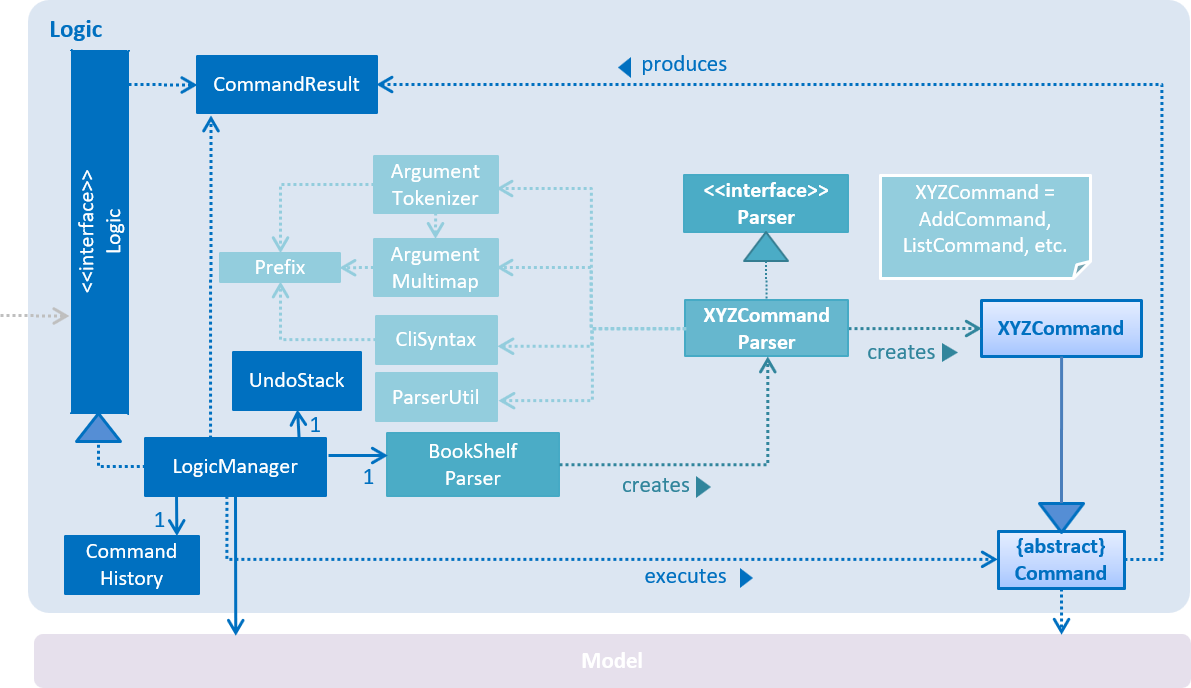
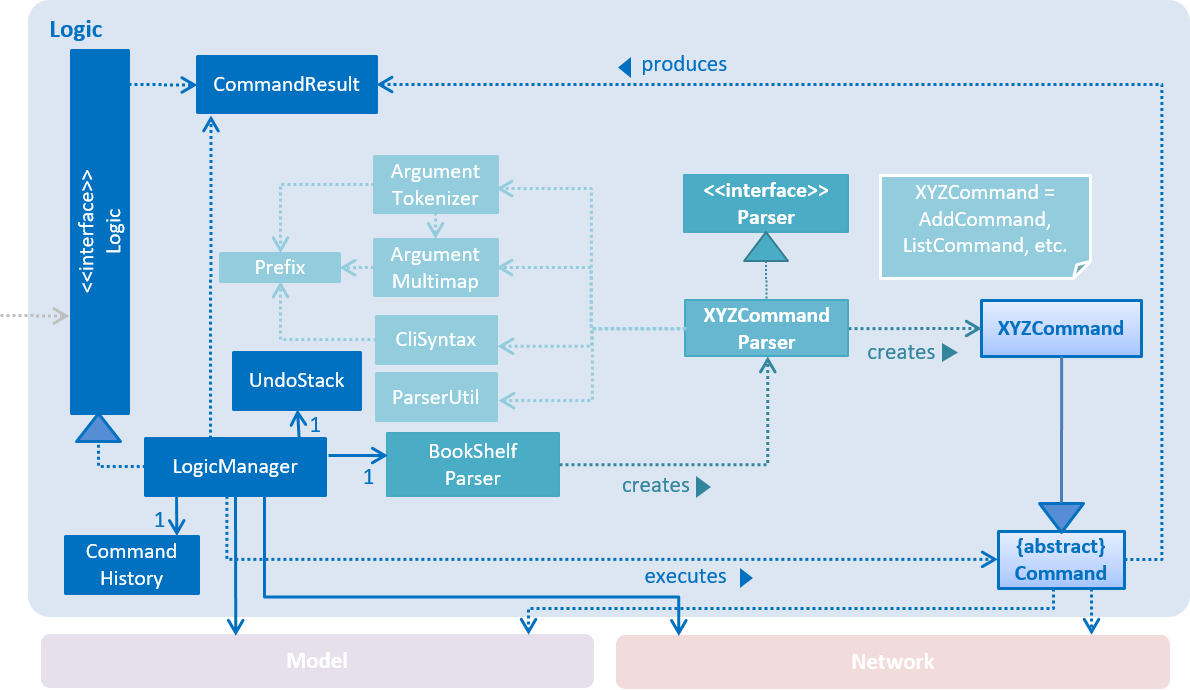
Rebuild pages at f0ba6e5fcd3ec1c89cfc0a51580741d20564dcec

diff --git a/DeveloperGuide.html b/DeveloperGuide.html
@@ -502,7 +502,7 @@ Note how the event is propagated through the <code>EventsCenter</code> to the <c
 <p>This results in a <code>Command</code> object which is executed by the <code>LogicManager</code>.</p>
 </li>
 <li>
-<p>The command execution can affect the <code>Model</code> (e.g. adding a book) and/or raise events.</p>
+<p>The command execution can affect the <code>Model</code> (e.g. adding a book), make web API calls using the <code>Network</code>, and/or raise events.</p>
 </li>
 <li>
 <p>The result of the command execution is encapsulated as a <code>CommandResult</code> object which is passed back to the <code>Ui</code>.</p>
@@ -619,6 +619,10 @@ Note how the event is propagated through the <code>EventsCenter</code> to the <c
 </div>
 <div class="sect2">
 <h3 id="search-feature"><a class="anchor" href="#search-feature"></a>3.1. Search feature</h3>
+<div class="paragraph">
+<p>The search feature allows the user to search for books on <a href="https://books.google.com/" target="_blank" rel="noopener">Google Books</a> that matches some user-specified parameters.
+This allows the user to easily search for particular books, and to add them without having to enter all the information manually (using the <code>add</code> command).</p>
+</div>
 <div class="sect3">
 <h4 id="current-implementation"><a class="anchor" href="#current-implementation"></a>3.1.1. Current Implementation</h4>
 <div class="sect4">
@@ -628,23 +632,24 @@ Note how the event is propagated through the <code>EventsCenter</code> to the <c
 An overview of the network component can be found in <a href="#Design-Network">Section 2.6, &#8220;Network component&#8221;</a>.</p>
 </div>
 <div class="paragraph">
-<p>The network component makes heavy use of events in the way it interacts with other components.
-The <code>Network</code> API exposes a single method <code>stop</code> that allows for graceful shutdown of the internal asynchronous HTTP client.
-All requests for web API calls should be made by raising the relevant <code>Api*RequestEvent</code>.
-To retrieve the results of the web API calls, interested classes should subscribe to the respective <code>Api*ResultEvent</code>.</p>
+<p>The <code>Network</code> object is passed by <code>LogicManager</code> into each <code>Command</code>, and is available for use by default, without the need for the <code>Command</code> to override <code>setData</code>.</p>
 </div>
 <div class="paragraph">
-<p>For example, to retrieve search results from Google Books API, an <code>ApiSearchRequestEvent</code> can be raised.
-The following sequence diagram shows how an <code>ApiSearchRequestEvent</code> will be handled:</p>
+<p>The <code>Network</code> API exposes various methods for making web API calls to various endpoints.
+Apart from those, it also provides a <code>stop</code> method that allows for graceful shutdown of the internal asynchronous HTTP client.</p>
+</div>
+<div class="paragraph">
+<p>As an example, if a command needs to retrieve search results from <a href="https://developers.google.com/books/" target="_blank" rel="noopener">Google Books API</a>, it can make a call to the <code>searchBooks</code> method of the <code>Network</code> API.
+The following sequence diagram shows what happens when <code>searchBooks</code> is called:</p>
 </div>
 <div class="imageblock">
 <div class="content">
-<img src="images/SearchRequestSequenceDiagram.png" alt="SearchRequestSequenceDiagram" width="800">
+<img src="images/SearchBooksSequenceDiagram.png" alt="SearchBooksSequenceDiagram" width="750">
 </div>
 </div>
 <div class="paragraph">
 <p>The methods shown above are asynchronous - they will not wait for the completion of the HTTP request.
-In particular, note that when <code>handleApiSearchRequestEvent</code> finishes execution, the HTTP request might not have completed yet.
+In particular, note that when <code>Network#searchBooks</code> finishes execution, the HTTP request might not have completed yet.
 This is accomplished through the use of a chain of <code>CompletableFuture</code> objects, which holds the operations that the above methods wish to apply to the data.
 This is most evident in the <code>executeGetAndApply</code> method, as shown below:</p>
 </div>
@@ -665,38 +670,23 @@ This is most evident in the <code>executeGetAndApply</code> method, as shown bel
 </div>
 <div class="imageblock">
 <div class="content">
-<img src="images/SearchRequestActivityDiagram.png" alt="SearchRequestActivityDiagram" width="650">
+<img src="images/SearchBooksActivityDiagram.png" alt="SearchBooksActivityDiagram" width="650">
 </div>
 </div>
 <div class="paragraph">
-<p>If the HTTP request fails, the response is unexpected, or the conversion to <code>BookShelf</code> fails, then the proceeding operations added by the calls to <code>thenApply</code> will be skipped,
-and the resulting <code>ApiSearchResultEvent</code> that is raised will have a <code>ResultOutcome</code> of <code>FAILURE</code>.</p>
-</div>
-<div class="listingblock">
-<div class="content">
-<pre class="CodeRay highlight"><code data-lang="java">    <span class="annotation">@Subscribe</span>
-    <span class="directive">protected</span> <span class="type">void</span> handleGoogleApiSearchRequestEvent(ApiSearchRequestEvent event) {
-        googleBooksApi.searchBooks(event.searchParameters)
-                .thenApply(bookShelf -&gt; {
-                    raise(<span class="keyword">new</span> ApiSearchResultEvent(ResultOutcome.SUCCESS, bookShelf));
-                    <span class="keyword">return</span> bookShelf;
-                })
-                .exceptionally(e -&gt; {
-                    raise(<span class="keyword">new</span> ApiSearchResultEvent(ResultOutcome.FAILURE, <span class="predefined-constant">null</span>));
-                    <span class="keyword">return</span> <span class="predefined-constant">null</span>;
-                });
-    }</code></pre>
-</div>
+<p>If the HTTP request fails, the response is unexpected, or the conversion to <code>BookShelf</code> fails, then the proceeding operations
+added by the calls to <code>thenApply</code> will be skipped, and the <code>CompletableFuture</code> is considered to have completed exceptionally.
+If necessary, the caller can handle the failure by chaining an <code>exceptionally</code> call onto the <code>CompletableFuture</code> it receives.</p>
 </div>
 </div>
 <div class="sect4">
-<h5 id="search-command"><a class="anchor" href="#search-command"></a>Search command</h5>
+<h5 id="Search-Command"><a class="anchor" href="#Search-Command"></a>Search command</h5>
 <div class="paragraph">
-<p>With the network component in place, the <code>search</code> command can now be implemented.
-The <code>search</code> command allows the user to search for books on Google Books that matches some user-specified parameters.</p>
+<p>With the network component in place, the <code>search</code> command can now be implemented.</p>
 </div>
 <div class="paragraph">
-<p>When a <code>search</code> command is entered, a <code>SearchCommand</code> will be created if the parsing of the command was successful, which will raise an <code>ApiSearchRequestEvent</code>, as shown in the sequence diagram below:</p>
+<p>When a <code>search</code> command is entered, a <code>SearchCommand</code> object will be created if the parsing of the command was successful,
+which will make a call to <code>searchBooks</code> on the <code>Network</code> API, as shown in the sequence diagram below:</p>
 </div>
 <div class="imageblock">
 <div class="content">
@@ -704,14 +694,24 @@ The <code>search</code> command allows the user to search for books on Google Bo
 </div>
 </div>
 <div class="paragraph">
-<p>As described in <a href="#Search-Network">Section 3.1.1.1, &#8220;Network component&#8221;</a>, when the event is handled by <code>NetworkManager</code>, this will result in an asynchronous HTTP request being made to Google Books API.
-Once the request and the parsing of the response completes successfully, an <code>ApiSearchResultEvent</code> will be raised, which will be handled in <code>LogicManager</code>.
-The below sequence diagram shows how the <code>ApiSearchResultEvent</code> will be handled:</p>
+<p>As described in <a href="#Search-Network">Section 3.1.1.1, &#8220;Network component&#8221;</a>, when the event is handled by <code>NetworkManager</code>, this will result in an asynchronous HTTP request being made to <a href="https://developers.google.com/books/" target="_blank" rel="noopener">Google Books API</a>.
+Once the request and the parsing of the response completes successfully, the operation added by the <code>thenAccept</code> call in <code>SearchCommand</code> will be executed.
+This results in the execution of the following method in <code>SearchCommand</code>:</p>
 </div>
-<div class="imageblock">
+<div class="listingblock">
 <div class="content">
-<img src="images/SearchCommandResultSequenceDiagram.png" alt="SearchCommandResultSequenceDiagram" width="650">
+<pre class="CodeRay highlight"><code data-lang="java">    <span class="directive">private</span> <span class="type">void</span> displaySearchResults(ReadOnlyBookShelf bookShelf) {
+        Platform.runLater(() -&gt; {
+            model.updateSearchResults(bookShelf);
+            EventsCenter.getInstance().post(<span class="keyword">new</span> SwitchToSearchResultsRequestEvent());
+            EventsCenter.getInstance().post(<span class="keyword">new</span> NewResultAvailableEvent(...));
+        });
+    }</code></pre>
 </div>
+</div>
+<div class="paragraph">
+<p>Note that the update to the model must be done on the JavaFX thread (using <code>Platform#runLater</code>),
+since updating the search results will update its observable list, which will cause the UI to be updated.</p>
 </div>
 </div>
 </div>
@@ -729,7 +729,7 @@ The below sequence diagram shows how the <code>ApiSearchResultEvent</code> will 
 <p>Pros: The application will be more responsive, as potentially long-running HTTP requests will not block the application thread.</p>
 </li>
 <li>
-<p>Cons: Not straightforward to implement, especially considering that changes to the UI has to be made on the JavaFX application thread.</p>
+<p>Cons: Not straightforward to implement, especially considering that changes to the UI have to be made on the JavaFX application thread.</p>
 </li>
 </ul>
 </div>
@@ -755,20 +755,7 @@ The below sequence diagram shows how the <code>ApiSearchResultEvent</code> will 
 <div class="ulist">
 <ul>
 <li>
-<p><strong>Alternative 1 (current choice):</strong> Use events to request for web API calls and retrieve the results.</p>
-<div class="ulist">
-<ul>
-<li>
-<p>Pros: Less coupling - no component will be directly depending on the network component.</p>
-</li>
-<li>
-<p>Cons: The flow of data can become less explicit and clear, and it becomes more complicated to use a single web API call for multiple purposes.</p>
-</li>
-</ul>
-</div>
-</li>
-<li>
-<p><strong>Alternative 2:</strong> Call methods on the <code>Network</code> API directly, which return <code>Future</code> objects.</p>
+<p><strong>Alternative 1 (current choice):</strong> Call methods on the <code>Network</code> API directly, which return <code>CompletableFuture</code> objects.</p>
 <div class="ulist">
 <ul>
 <li>
@@ -776,6 +763,19 @@ The below sequence diagram shows how the <code>ApiSearchResultEvent</code> will 
 </li>
 <li>
 <p>Cons: Since web API calls are made by certain commands, the <code>NetworkManager</code> will have to be passed from <code>MainApp</code> all the way into each <code>Command</code>.</p>
+</li>
+</ul>
+</div>
+</li>
+<li>
+<p><strong>Alternative 2:</strong> Use events to request for web API calls and retrieve the results.</p>
+<div class="ulist">
+<ul>
+<li>
+<p>Pros: Less coupling - no component will be directly depending on the network component.</p>
+</li>
+<li>
+<p>Cons: The flow of data can become less explicit and clear, and it becomes more complicated to use a single web API call for multiple purposes.</p>
 </li>
 </ul>
 </div>
@@ -3148,7 +3148,7 @@ Expected: Similar to previous.</p>
 </div>
 <div id="footer">
 <div id="footer-text">
-Last updated 2018-03-29 14:04:52 UTC
+Last updated 2018-03-29 14:16:59 UTC
 </div>
 </div>
 </body>

diff --git a/UsingCoveralls.html b/UsingCoveralls.html
@@ -115,7 +115,7 @@ If you have not set up Travis CI, see <a href="UsingTravis.html">UsingTravis.ado
 </div>
 <div id="footer">
 <div id="footer-text">
-Last updated 2018-03-29 14:04:52 UTC
+Last updated 2018-03-29 14:16:59 UTC
 </div>
 </div>
 </body>

diff --git a/UsingGradle.html b/UsingGradle.html
@@ -261,7 +261,7 @@ See <code>build.gradle</code> &#8594; <code>allprojects</code> &#8594; <code>dep
 </div>
 <div id="footer">
 <div id="footer-text">
-Last updated 2018-03-29 14:04:52 UTC
+Last updated 2018-03-29 14:16:59 UTC
 </div>
 </div>
 </body>

diff --git a/UsingNetlify.html b/UsingNetlify.html
@@ -142,7 +142,7 @@ The publish directory is the directory in which the built HTML documentation res
 </div>
 <div id="footer">
 <div id="footer-text">
-Last updated 2018-03-29 14:04:52 UTC
+Last updated 2018-03-29 14:16:59 UTC
 </div>
 </div>
 </body>

diff --git a/team/johndoe.html b/team/johndoe.html
@@ -422,7 +422,7 @@ If the <code>undoStack</code> is empty, then there are no other commands left to
 </div>
 <div id="footer">
 <div id="footer-text">
-Last updated 2018-03-29 14:04:52 UTC
+Last updated 2018-03-29 14:16:59 UTC
 </div>
 </div>
 </body>

diff --git a/UserGuide.html b/UserGuide.html
@@ -1503,7 +1503,7 @@ e.g. <code>search t/Babylon&#8217;s Ashes c/Science Fiction</code></p>
 </div>
 <div id="footer">
 <div id="footer-text">
-Last updated 2018-03-29 14:04:52 UTC
+Last updated 2018-03-29 14:16:59 UTC
 </div>
 </div>
 </body>

diff --git a/UsingTravis.html b/UsingTravis.html
@@ -299,7 +299,7 @@ Suggested change: Remove the codacy badge from <code>README</code>.</p>
 </div>
 <div id="footer">
 <div id="footer-text">
-Last updated 2018-03-29 14:04:52 UTC
+Last updated 2018-03-29 14:16:59 UTC
 </div>
 </div>
 </body>

diff --git a/UsingCheckstyle.html b/UsingCheckstyle.html
@@ -103,7 +103,7 @@ Restart the IDE to complete the installation.</p>
 </div>
 <div id="footer">
 <div id="footer-text">
-Last updated 2018-03-29 14:04:52 UTC
+Last updated 2018-03-29 14:16:59 UTC
 </div>
 </div>
 </body>

diff --git a/TestDocument.html b/TestDocument.html
@@ -178,7 +178,7 @@ This should be on a new line.</p>
 </div>
 <div id="footer">
 <div id="footer-text">
-Last updated 2018-03-29 14:04:52 UTC
+Last updated 2018-03-29 14:16:59 UTC
 </div>
 </div>
 </body>

diff --git a/AboutUs.html b/AboutUs.html
@@ -98,7 +98,7 @@ Responsibilities: UI</p>
 </div>
 <div id="footer">
 <div id="footer-text">
-Last updated 2018-03-29 14:04:52 UTC
+Last updated 2018-03-29 14:16:59 UTC
 </div>
 </div>
 </body>

diff --git a/UsingAppVeyor.html b/UsingAppVeyor.html
@@ -174,7 +174,7 @@ grant access:</p>
 </div>
 <div id="footer">
 <div id="footer-text">
-Last updated 2018-03-29 14:04:52 UTC
+Last updated 2018-03-29 14:16:59 UTC
 </div>
 </div>
 </body>

diff --git a/index.html b/index.html
@@ -114,7 +114,7 @@
 </div>
 <div id="footer">
 <div id="footer-text">
-Last updated 2018-03-29 14:04:52 UTC
+Last updated 2018-03-29 14:16:59 UTC
 </div>
 </div>
 </body>
